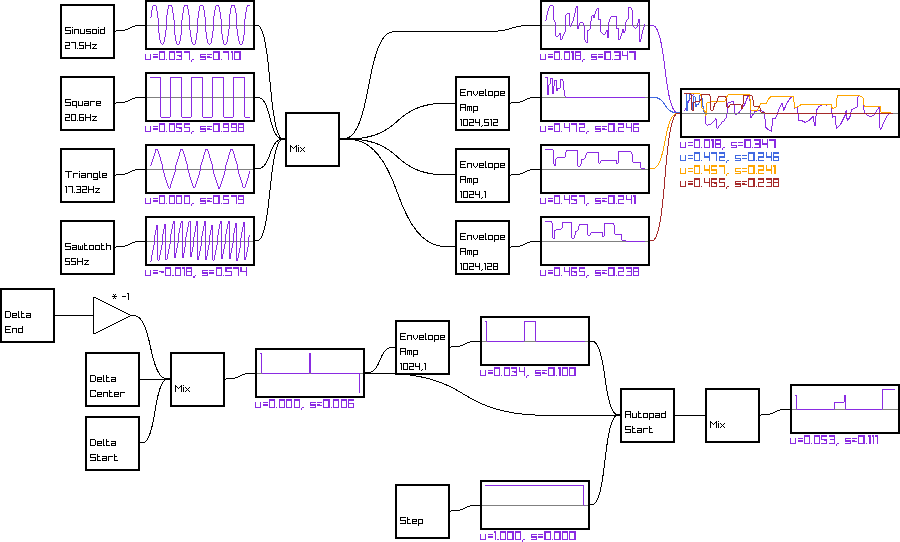
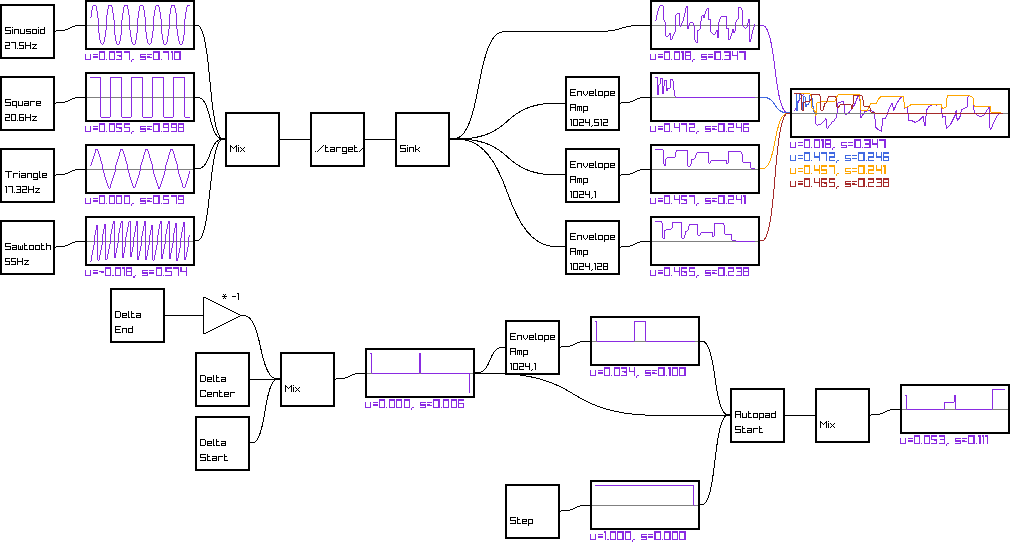
implement a wav file writer

diff --git a/src/wav.rs b/src/wav.rs
@@ -1,0 +1,70 @@
+use std::{fs::File, io::Write, path::Path};
+
+use crate::{
+    dsp::{self, Wave},
+    graph::Block,
+    vis::{visualize_simple_box, DrawContext, VisualizeResult},
+};
+
+#[derive(Debug)]
+pub struct WavWriter {
+    file: File,
+    path: String,
+}
+
+impl WavWriter {
+    pub fn new<T: AsRef<Path>>(path: T) -> anyhow::Result<Self> {
+        let _ = std::fs::remove_file(&path);
+
+        Ok(Self {
+            path: path.as_ref().to_str().unwrap_or_default().to_string(),
+            file: std::fs::OpenOptions::new()
+                .create(true)
+                .write(true)
+                .open(path)?,
+        })
+    }
+}
+
+impl Block<Wave> for WavWriter {
+    type Output = Wave;
+
+    #[rustfmt::skip]
+    fn process(&mut self, input: Wave) -> Self::Output {
+        // RIFF header
+        self.file.write(b"RIFF").unwrap();
+        self.file.write(&((36 + input.len() * 4) as u32).to_le_bytes()).unwrap();
+        self.file.write(b"WAVE").unwrap();
+
+        // FMT header
+        self.file.write(b"fmt ").unwrap();
+        self.file.write(&16u32.to_le_bytes()).unwrap();
+        self.file.write(&0x3u16.to_le_bytes()).unwrap(); /* IEEE float PCM  */
+        self.file.write(&1u16.to_le_bytes()).unwrap(); /* mono  */
+        self.file.write(&(dsp::SR as u32).to_le_bytes()).unwrap();
+        self.file.write(&(((1 * dsp::SR * 4) / 8) as i32).to_le_bytes()).unwrap();
+        self.file.write(&(((1 * 4) / 8) as i16).to_le_bytes()).unwrap();
+        self.file.write(&(32i16).to_le_bytes()).unwrap();
+
+        // data header
+        self.file.write(b"data").unwrap();
+        self.file.write(&((input.len() * 4) as u32).to_le_bytes()).unwrap();
+
+        let data: Vec<_> = input.iter().map(|x| x.to_le_bytes()).flatten().collect();
+        self.file.write(data.as_slice()).unwrap();
+        if data.len() % 2 == 1 {
+          self.file.write(b"\0").unwrap();
+        }
+
+        input
+    }
+
+    fn process_and_visualize(
+        &mut self,
+        input: Wave,
+        context: &mut DrawContext,
+    ) -> (Self::Output, VisualizeResult) {
+        let out = self.process(input);
+        visualize_simple_box(context, &self.path, out)
+    }
+}

diff --git a/src/setups/playground.rs b/src/setups/playground.rs
@@ -5,6 +5,7 @@ use synths::OscillatorControls;
 use crate::dsp::blocks::*;
 use crate::graph::{Block, CanConnect, CanFork, CanStack, MetadataExt};
 use crate::vis::{Identity, WaveView};
+use crate::wav::WavWriter;
 use crate::{graph, vis};
 
 type Input1 = (
@@ -39,7 +40,7 @@ pub fn create_playground_blocks(
         .stack(blocks::synths::Oscillator.connect(vis::WaveView::small()))
         .stack(blocks::synths::Oscillator.connect(vis::WaveView::small()))
         .stack(blocks::synths::Oscillator.connect(vis::WaveView::small()))
-        .connect(Basic::Mix)
+        .connect(Basic::Mix.connect(WavWriter::new("./target/out.wav")?).connect(vis::AudioSink::try_default()?))
         .fork(envelope)
         .connect(vis::WaveView::grow())
         .colored();

diff --git a/src/main.rs b/src/main.rs
@@ -12,6 +12,7 @@ pub mod dsp;
 pub mod graph;
 pub mod setups;
 pub mod vis;
+pub mod wav;
 
 const W: i32 = 1080;
 const H: i32 = 720;
